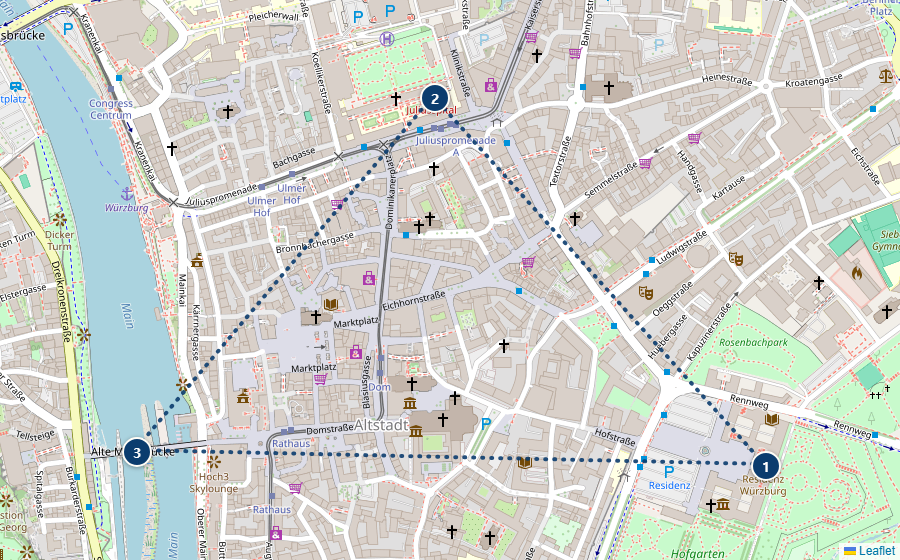
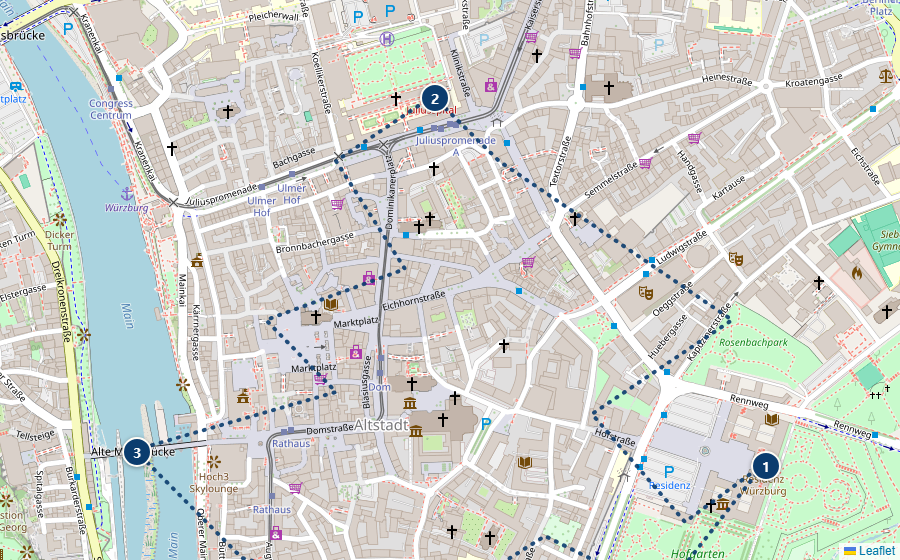
Redraw Wurzburg walking route to fix triangle-shaped straight lines
The map connected Residenz, Juliusspital, and Alte Mainbruecke with
three bare straight segments (no waypoints at all), reading as a
plain triangle. Added dense zigzag waypoints per leg following
Rennweg/Hofstrasse/Juliuspromenade, Bachgasse/Eichhornstrasse/
Domstrasse, and Ludwigstrasse/Rennweg so each edge visibly winds
through the old town instead of drawing a ruler-straight line between
the three stops.

diff --git a/germany-roadtrip-planner.html b/germany-roadtrip-planner.html
@@ -1003,7 +1003,7 @@ document.addEventListener('DOMContentLoaded', function(){
       <a class="walk-map-link" href="https://www.google.com/maps/dir/?api=1&travelmode=walking&origin=49.7928,9.9392&destination=49.7928,9.9392&waypoints=49.7979,9.9321%7C49.7930,9.9257" target="_blank" rel="noopener">📍 Google 지도로 도보 코스 보기 · 총 약 3.6km · 도보 약 50분</a>
       <div class="route-snapshot">
         <div class="route-snapshot-media">
-          <img src="images/routes/wurzburg.png?v=2" alt="뷔르츠부르크 도보 코스 지도 스냅샷" loading="lazy">
+          <img src="images/routes/wurzburg.png?v=3" alt="뷔르츠부르크 도보 코스 지도 스냅샷" loading="lazy">
         </div>
         <ol class="route-steps">
         <li><span class="rs-name">레지덴츠 궁전(Residenz)</span></li>

diff --git a/index.html b/index.html
@@ -1003,7 +1003,7 @@ document.addEventListener('DOMContentLoaded', function(){
       <a class="walk-map-link" href="https://www.google.com/maps/dir/?api=1&travelmode=walking&origin=49.7928,9.9392&destination=49.7928,9.9392&waypoints=49.7979,9.9321%7C49.7930,9.9257" target="_blank" rel="noopener">📍 Google 지도로 도보 코스 보기 · 총 약 3.6km · 도보 약 50분</a>
       <div class="route-snapshot">
         <div class="route-snapshot-media">
-          <img src="images/routes/wurzburg.png?v=2" alt="뷔르츠부르크 도보 코스 지도 스냅샷" loading="lazy">
+          <img src="images/routes/wurzburg.png?v=3" alt="뷔르츠부르크 도보 코스 지도 스냅샷" loading="lazy">
         </div>
         <ol class="route-steps">
         <li><span class="rs-name">레지덴츠 궁전(Residenz)</span></li>
